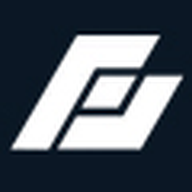
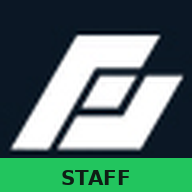
Iconos STAFF diferenciados y color email verde
- Nuevos iconos PWA con banda verde "STAFF" para distinguir
  de la app de clientes
- Icono email cambiado de warning (naranja) a accent (verde)

Changed region(s): [[0.0, 0.8125, 1.0, 1.0]]

diff --git a/styles.css b/styles.css
@@ -1384,7 +1384,7 @@ body {
 }
 
 .message .text .bi-envelope {
-    color: var(--staff-warning);
+    color: var(--staff-accent);
 }
 
 .message .text .bi-geo-alt {
@@ -1586,9 +1586,9 @@ body {
 }
 
 .icon-email {
-    background: rgba(245, 158, 11, 0.1);
-    color: var(--staff-warning);
-    border: 1px solid rgba(245, 158, 11, 0.2);
+    background: rgba(34, 197, 94, 0.1);
+    color: var(--staff-accent);
+    border: 1px solid rgba(34, 197, 94, 0.2);
 }
 
 .icon-address {
